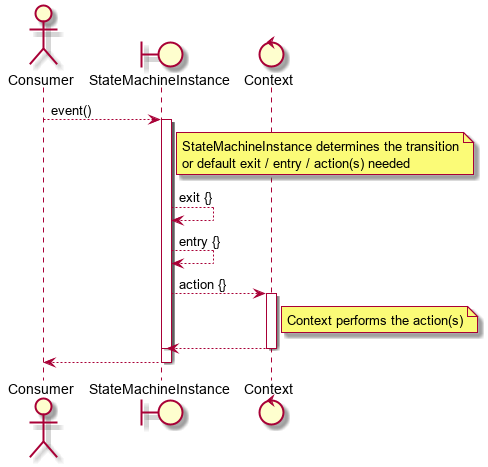
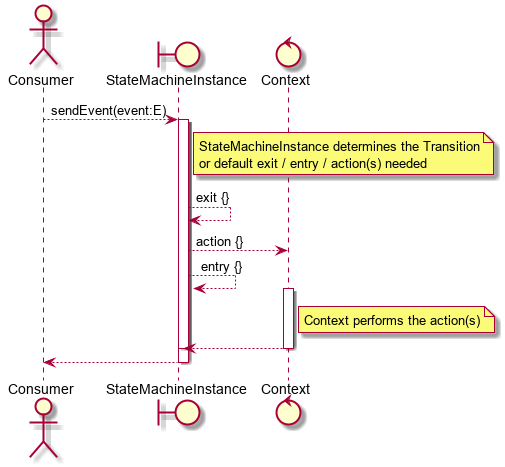
improved documentation.

diff --git a/src/commonMain/kotlin/io/jumpco/open/kfsm/kfsm.kt b/src/commonMain/kotlin/io/jumpco/open/kfsm/kfsm.kt
@@ -9,11 +9,49 @@
 
 package io.jumpco.open.kfsm
 
+/**
+ * This represents an action that may be invoked during a transition.
+ * @param C The context: C will be available to the lambda.
+ */
 typealias StateAction<C> = (C) -> Unit
+
+/**
+ * This represents a guard expression that may be used to select a specific transition.
+ * @param C The context: C will be available to the lambda
+ */
 typealias StateGuard<C> = (C) -> Boolean
+
+/**
+ * This represents an expression to determine the state of the context. This is useful when creating an instance of a
+ * statemachine multiple times during the lifecycle of a context represented by a persisted or serializable entity.
+ * @param C The context:C will be available to the lambda.
+ * @param S The type of the state that should be returned by the lambda.
+ */
 typealias StateQuery<C, S> = ((C) -> S)
+
+/**
+ * This represents a default action that will be invoked on a change in state as defined with entry or exit.
+ * @param C The context: C will be available to the lambda
+ * @param S currentState: S and endState: S will be available to the lambda.
+ */
 typealias DefaultChangeAction<C, S> = (C, S, S) -> Unit
+
+/**
+ * This represents a default action for a specific event. These action will not cause changes in state.
+ * They are internal transitions.
+ * @param C The context: C will be available to the lambda
+ * @param S The currentState:S will be available to the lambda
+ * @param E The event: E will be available to the lambda
+ */
 typealias DefaultStateAction<C, S, E> = (C, S, E) -> Unit
+
+
+/**
+ * This represents an event and endState pair that can be written as `event to state`
+ * @param E The event: E will be the first element of the pair
+ * @param S The endState: S will be the second element of the pair.
+ */
+typealias EventState<E,S> = Pair<E,S>
 
 /**
  * This class represents the definition of a statemachine.
@@ -136,20 +174,22 @@ class StateMachine<S : Enum<S>, E : Enum<E>, C> {
             fsm.defaultExitAction?.invoke(context, currentState, endState)
         }
 
+        private fun executeDefaultAction(event: E) {
+            val defaultAction = fsm.defaultActions[currentState] ?: fsm.globalDefault
+            if (defaultAction == null) {
+                error("Transition from $currentState on $event not defined")
+            } else {
+                defaultAction.invoke(context, currentState, event)
+            }
+        }
+
         /**
          * This function will process the on and advance the state machine according to the FSM definition.
          * @param event The on received,
          */
         fun sendEvent(event: E) {
             val transitionRules = fsm.transitionRules[Pair(currentState, event)]
-            if (transitionRules == null) {
-                val transition = fsm.defaultTransitions[event]
-                if (transition != null) {
-                    execute(transition)
-                } else {
-                    executeDefaultAction(event)
-                }
-            } else {
+            if (transitionRules != null) {
                 val guardedTransition = transitionRules.findGuard(context)
                 if (guardedTransition != null) {
                     execute(guardedTransition)
@@ -161,19 +201,26 @@ class StateMachine<S : Enum<S>, E : Enum<E>, C> {
                         executeDefaultAction(event)
                     }
                 }
-            }
-        }
-
-        private fun executeDefaultAction(event: E) {
-            val defaultAction = fsm.defaultActions[currentState] ?: fsm.globalDefault
-            if (defaultAction == null) {
-                error("Transition from $currentState on $event not defined")
             } else {
-                defaultAction.invoke(context, currentState, event)
+                val transition = fsm.defaultTransitions[event]
+                if (transition != null) {
+                    execute(transition)
+                } else {
+                    executeDefaultAction(event)
+                }
             }
         }
     }
 
+    /**
+     * This function defines a transition from the currentState equal to startState to the endState when event is
+     * received and the guard expression is met. The action is executed after any exit action and before entry actions.
+     * @param startState The transition will be considered when currentState matches stateState
+     * @param event The event will trigger the consideration of this transition
+     * @param endState The transition will change currentState to endState after executing the option action
+     * @param guard The guard expression will have to be met to consider the transition
+     * @param action The optional action will be executed when the transition occurs.
+     */
     fun transition(startState: S, event: E, endState: S, guard: StateGuard<C>, action: StateAction<C>?) {
         val key = Pair(startState, event)
         val transitionRule = transitionRules[key]
@@ -186,6 +233,14 @@ class StateMachine<S : Enum<S>, E : Enum<E>, C> {
         }
     }
 
+    /**
+     * This function defines a transition that doesn't change the state also know as an internal transition.
+     * The transition will only occur if the guard expression is met.
+     * @param startState The transition will be considered when currentState matches stateState
+     * @param event The event will trigger the consideration of this transition
+     * @param guard The guard expression will have to be met to consider the transition
+     * @param action The optional action will be executed when the transition occurs.
+     */
     fun transition(startState: S, event: E, guard: StateGuard<C>, action: StateAction<C>?) {
         val key = Pair(startState, event)
         val transitionRule = transitionRules[key]
@@ -250,7 +305,8 @@ class StateMachine<S : Enum<S>, E : Enum<E>, C> {
     )
 
     /**
-     * This function defines an action to be invoked when no action is found matching the current state and on
+     * This function defines an action to be invoked when no action is found matching the current state and event.
+     * This will be an internal transition and will not cause a change in state or invoke entry or exit functions.
      * @param action This action will be performed
      */
     fun defaultAction(action: DefaultStateAction<C, S, E>) {
@@ -281,7 +337,7 @@ class StateMachine<S : Enum<S>, E : Enum<E>, C> {
     }
 
     /**
-     * This function defined an action to be invoked when no actions are found matching the given state and on.
+     * This function defines an action to be invoked when no transitions are found matching the given state and on.
      * @param currentState The provided state
      * @param action This action will be invoked
      */
@@ -290,11 +346,21 @@ class StateMachine<S : Enum<S>, E : Enum<E>, C> {
         defaultActions[currentState] = action
     }
 
+    /**
+     * This function defines an action to be invoked when no transitions match the event. The currentState will be change to second parameter of the Pair.
+     * @param event The Pair holds the event and endState and can be written as `event to state`
+     * @param action The option action will be executed when this default transition occurs.
+     */
     fun default(event: Pair<E, S>, action: StateAction<C>?) {
         require(defaultTransitions[event.first] == null) { "Default transition for ${event.first} already defined" }
         defaultTransitions[event.first] = DefaultTransition(event.first, event.second, action)
     }
 
+    /**
+     * This function defines an action to be invoked when no transitions are found for given event.
+     * @param The event to match this transition.
+     * @param action The option action will be executed when this default transition occurs.
+     */
     fun default(event: E, action: StateAction<C>?) {
         require(defaultTransitions[event] == null) { "Default transition for $event already defined" }
         defaultTransitions[event] = DefaultTransition<E, S, C>(event, null, action)
@@ -328,6 +394,3 @@ class StateMachine<S : Enum<S>, E : Enum<E>, C> {
         deriveInitialState = init
     }
 }
-
-
-

diff --git a/src/commonMain/kotlin/io/jumpco/open/kfsm/kfsm-dsl.kt b/src/commonMain/kotlin/io/jumpco/open/kfsm/kfsm-dsl.kt
@@ -20,7 +20,7 @@ class DslStateMachineEventHandler<S : Enum<S>, E : Enum<E>, C>(
      * Defines a default action when no other transition are matched
      * @param action The action will be performed
      */
-    fun default(action: (C, S, E) -> Unit) {
+    fun default(action: DefaultStateAction<C, S, E>) {
         fsm.default(currentState, action)
     }
 
@@ -28,14 +28,14 @@ class DslStateMachineEventHandler<S : Enum<S>, E : Enum<E>, C>(
      * Defines an action to be performed before transition causes a change in state
      * @param action The action will be performed
      */
-    fun entry(action: (C, S, S) -> Unit) {
+    fun entry(action: DefaultChangeAction<C, S>) {
         fsm.entry(currentState, action)
     }
 
     /**
      * Defines an action to be performed after a transition has changed the state
      */
-    fun exit(action: (C, S, S) -> Unit) {
+    fun exit(action: DefaultChangeAction<C, S>) {
         fsm.exit(currentState, action)
     }
 
@@ -44,15 +44,22 @@ class DslStateMachineEventHandler<S : Enum<S>, E : Enum<E>, C>(
      * @param event A Pair with the first being the on and the second being the endState.
      * @param action The action will be performed
      */
-    fun on(event: Pair<E, S>, action: ((C) -> Unit)?): DslStateMachineEventHandler<S, E, C> {
+    fun on(event: EventState<E, S>, action: StateAction<C>?): DslStateMachineEventHandler<S, E, C> {
         fsm.transition(currentState, event.first, event.second, action)
         return this
     }
 
     /**
-     * Defines a guarded transition. Where the transition will only be used if the guared expression is met
+     * Defines a guarded transition. Where the transition will only be used if the guarded expression is met
+     * @param event The event and endState the defines the transition
+     * @param guard The guard expression must be met before the transition is considered.
+     * @param action The optional action that may be executed
      */
-    fun on(event: Pair<E, S>, guard: ((C) -> Boolean), action: ((C) -> Unit)?): DslStateMachineEventHandler<S, E, C> {
+    fun on(
+        event: EventState<E, S>,
+        guard: StateGuard<C>,
+        action: StateAction<C>?
+    ): DslStateMachineEventHandler<S, E, C> {
         fsm.transition(currentState, event.first, event.second, guard, action)
         return this
     }
@@ -60,7 +67,7 @@ class DslStateMachineEventHandler<S : Enum<S>, E : Enum<E>, C>(
     /**
      * Defines a transition where an on causes an action but doesn't change the state.
      */
-    fun on(event: E, action: ((C) -> Unit)?): DslStateMachineEventHandler<S, E, C> {
+    fun on(event: E, action: StateAction<C>?): DslStateMachineEventHandler<S, E, C> {
         fsm.transition(currentState, event, action)
         return this
     }
@@ -69,7 +76,7 @@ class DslStateMachineEventHandler<S : Enum<S>, E : Enum<E>, C>(
      * Defines a guarded transition where an on causes an action but doesn't change the state and will only be used
      * if the guard expression is met
      */
-    fun on(event: E, guard: ((C) -> Boolean), action: ((C) -> Unit)?): DslStateMachineEventHandler<S, E, C> {
+    fun on(event: E, guard: StateGuard<C>, action: StateAction<C>?): DslStateMachineEventHandler<S, E, C> {
         fsm.transition(currentState, event, guard, action)
         return this
     }
@@ -83,7 +90,7 @@ class DslStateMachineDefaultEventHandler<S : Enum<S>, E : Enum<E>, C>(private va
     /**
      * Define a default action that will be applied when no other transitions are matched.
      */
-    fun action(action: (C, S, E) -> Unit) {
+    fun action(action: DefaultStateAction<C, S, E>) {
         fsm.defaultAction(action)
     }
 
@@ -91,7 +98,7 @@ class DslStateMachineDefaultEventHandler<S : Enum<S>, E : Enum<E>, C>(private va
      * Defines an action to perform before a change in the currentState of the FSM
      * @param action This action will be performed
      */
-    fun entry(action: (C, S, S) -> Unit) {
+    fun entry(action: DefaultChangeAction<C, S>) {
         fsm.defaultEntry(action)
     }
 
@@ -99,7 +106,7 @@ class DslStateMachineDefaultEventHandler<S : Enum<S>, E : Enum<E>, C>(private va
      * Defines an action to be performed after the currentState was changed.
      * @param action The action will be performed
      */
-    fun exit(action: (C, S, S) -> Unit) {
+    fun exit(action: DefaultChangeAction<C, S>) {
         fsm.defaultExit(action)
     }
 
@@ -108,12 +115,12 @@ class DslStateMachineDefaultEventHandler<S : Enum<S>, E : Enum<E>, C>(private va
      * @param event Pair representing an on and endState for transition. Can be written as EVENT to STATE
      * @param action The action will be performed before transition is completed
      */
-    fun on(event: Pair<E, S>, action: ((C) -> Unit)?): DslStateMachineDefaultEventHandler<S, E, C> {
+    fun on(event: EventState<E, S>, action: StateAction<C>?): DslStateMachineDefaultEventHandler<S, E, C> {
         fsm.default(event, action)
         return this
     }
 
-    fun on(event: E, action: ((C) -> Unit)?): DslStateMachineDefaultEventHandler<S, E, C> {
+    fun on(event: E, action: StateAction<C>?): DslStateMachineDefaultEventHandler<S, E, C> {
         fsm.default(event, action)
         return this
     }
@@ -124,19 +131,17 @@ class DslStateMachineDefaultEventHandler<S : Enum<S>, E : Enum<E>, C>(private va
  */
 class DslStateMachineHandler<S : Enum<S>, E : Enum<E>, C>(private val fsm: StateMachine<S, E, C>) {
 
-    fun initial(deriveInitialState: (C) -> S): DslStateMachineHandler<S, E, C> {
+    fun initial(deriveInitialState: StateQuery<C, S>): DslStateMachineHandler<S, E, C> {
         fsm.initial(deriveInitialState)
         return this
     }
 
     fun state(currentState: S, handler: DslStateMachineEventHandler<S, E, C>.() -> Unit):
-            DslStateMachineEventHandler<S, E, C>
-        = DslStateMachineEventHandler(currentState, fsm).apply(handler)
+            DslStateMachineEventHandler<S, E, C> = DslStateMachineEventHandler(currentState, fsm).apply(handler)
 
 
     fun default(handler: DslStateMachineDefaultEventHandler<S, E, C>.() -> Unit):
-            DslStateMachineDefaultEventHandler<S, E, C>
-        = DslStateMachineDefaultEventHandler(fsm).apply(handler)
+            DslStateMachineDefaultEventHandler<S, E, C> = DslStateMachineDefaultEventHandler(fsm).apply(handler)
 
     fun build() = fsm
 }

diff --git a/src/commonTest/kotlin/io/jumpco/open/kfsm/turnstile.kt b/src/commonTest/kotlin/io/jumpco/open/kfsm/turnstile.kt
@@ -63,7 +63,8 @@ class TurnstileFSM(turnstile: Turnstile) {
                 entry { context, startState, endState ->
                     println("entering:$startState -> $endState for $context")
                 }
-                action { ts, _, _ ->
+                action { ts, state, event ->
+                    println("Default action for state($state) -> on($event) for $ts")
                     ts.alarm()
                 }
                 exit { context, startState, endState ->
